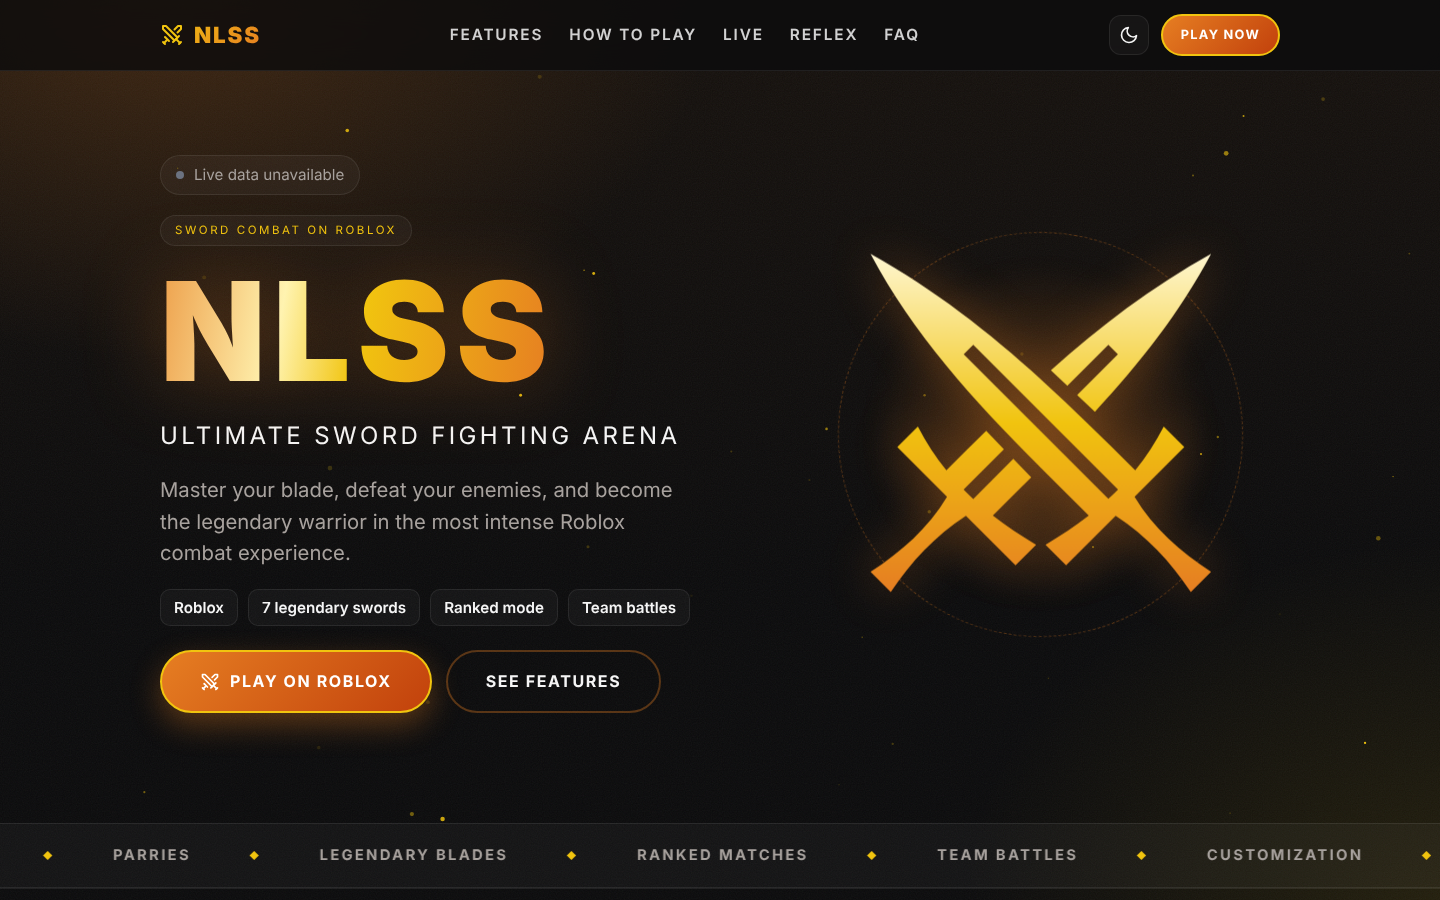
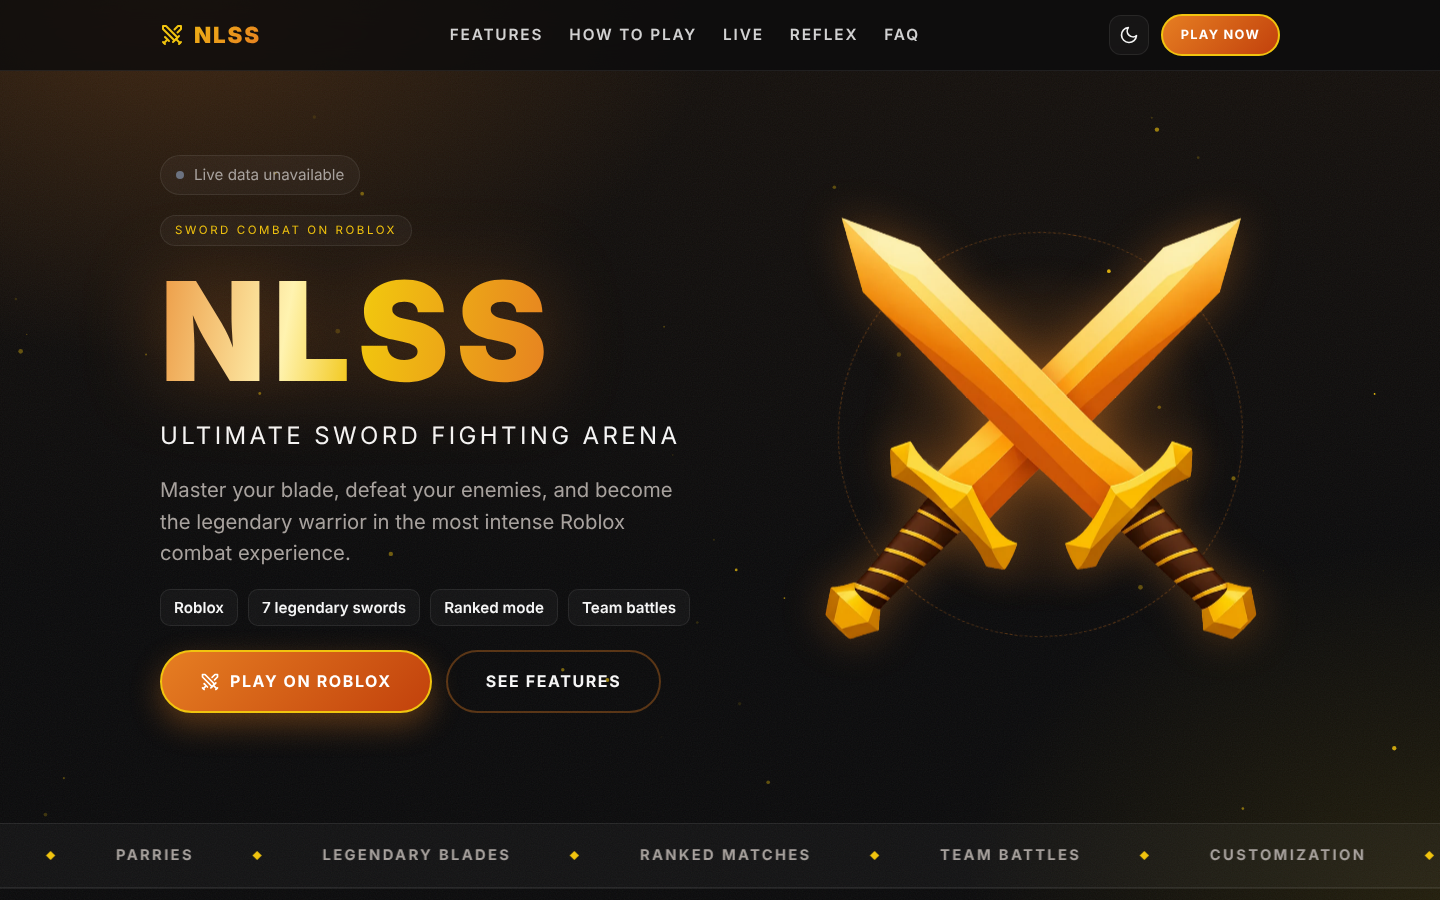
Use the crossed-swords artwork in the hero
- Add _archive/nlss-swords.webp: the supplied gold crossed-swords art,
  with the faint aura and noise removed from its alpha channel, cropped
  to the artwork and resized to 800px (about 55 KB)
- Hero shows the image in a float wrapper; the clash intro animates the
  image and the spark burst lives in its own overlay
- Remove the game-icons credit from the footer, since that icon is no
  longer used
- Refresh screenshots

diff --git a/_archive/nlss_website_final.html b/_archive/nlss_website_final.html
@@ -402,17 +402,12 @@
       background: radial-gradient(circle, var(--glow) 0%, transparent 65%);
       filter: blur(10px);
     }
-    .blades {
-      position: relative;
-      width: 100%;
-      height: 100%;
-      overflow: visible;
-      filter: drop-shadow(0 0 24px var(--glow));
-      animation: float 6s ease-in-out infinite;
-    }
+    .emblem { position: relative; height: 100%; animation: float 6s ease-in-out infinite; }
+    .blades { display: block; width: 100%; height: auto; filter: drop-shadow(0 0 22px var(--glow)); }
+    .sparks { position: absolute; inset: 0; width: 100%; height: 100%; pointer-events: none; overflow: visible; }
     @keyframes float { 50% { transform: translateY(-10px); } }
     .spark-ring, .spark-lines { opacity: 0; }
-    .hero-art.clash .emblem { transform-box: view-box; transform-origin: 256px 256px; animation: emblem-in 0.9s cubic-bezier(0.2, 0.8, 0.2, 1) both; }
+    .hero-art.clash .blades { animation: emblem-in 0.9s cubic-bezier(0.2, 0.8, 0.2, 1) both; }
     .hero-art.clash .spark-ring { transform-box: view-box; transform-origin: 256px 256px; animation: ring 0.7s ease-out 0.8s both; }
     .hero-art.clash .spark-lines { transform-box: view-box; transform-origin: 256px 256px; animation: sparks 0.6s ease-out 0.8s both; }
     @keyframes emblem-in { from { transform: scale(0.8) rotate(-8deg); opacity: 0; } to { transform: none; opacity: 1; } }
@@ -746,7 +741,6 @@
     .foot-links a { color: var(--muted); text-decoration: none; }
     .foot-links a:hover { color: var(--accent-text); text-decoration: underline; }
     .foot-actions { display: flex; align-items: center; gap: 14px; flex-wrap: wrap; justify-content: flex-end; }
-    .copy a { color: var(--accent-text); }
     .copy { margin-top: 34px; padding-top: 22px; border-top: 1px solid var(--line-soft); font-size: 0.92rem; }
     .footer-mark {
       margin-top: 40px;
@@ -945,18 +939,10 @@
         <div class="hero-art" id="hero-art" aria-hidden="true" title="Click to replay the clash">
           <div class="ring"></div>
           <div class="glow"></div>
-          <svg class="blades" viewBox="0 0 512 512" focusable="false">
-            <defs>
-              <linearGradient id="emblem-grad" x1="0" y1="0" x2="0" y2="1">
-                <stop offset="0" stop-color="#fff7d1"/>
-                <stop offset="0.5" stop-color="#f1c40f"/>
-                <stop offset="1" stop-color="#e67e22"/>
-              </linearGradient>
-            </defs>
-            <!-- Crossed swords: game-icons.net "crossed-swords", CC BY 3.0. Confirm author credit on the icon page. -->
-            <g transform="translate(256 256) scale(0.84) translate(-256 -256)">
-              <g class="emblem"><path fill="url(#emblem-grad)" d="M19.75 14.438c59.538 112.29 142.51 202.35 232.28 292.718l3.626 3.75l.063-.062c21.827 21.93 44.04 43.923 66.405 66.25c-18.856 14.813-38.974 28.2-59.938 40.312l28.532 28.53l68.717-68.717c42.337 27.636 76.286 63.646 104.094 105.81l28.064-28.06c-42.47-27.493-79.74-60.206-106.03-103.876l68.936-68.938l-28.53-28.53c-11.115 21.853-24.413 42.015-39.47 60.593c-43.852-43.8-86.462-85.842-130.125-125.47c-.224-.203-.432-.422-.656-.625C183.624 122.75 108.515 63.91 19.75 14.437zm471.875 0c-83.038 46.28-154.122 100.78-221.97 161.156l22.814 21.562l56.81-56.812l13.22 13.187l-56.438 56.44l24.594 23.186c61.802-66.92 117.6-136.92 160.97-218.72zm-329.53 125.906l200.56 200.53a403 403 0 0 1-13.405 13.032L148.875 153.53zm-76.69 113.28l-28.5 28.532l68.907 68.906c-26.29 43.673-63.53 76.414-106 103.907l28.063 28.06c27.807-42.164 61.758-78.174 104.094-105.81l68.718 68.717l28.53-28.53c-20.962-12.113-41.08-25.5-59.937-40.313c17.865-17.83 35.61-35.433 53.157-52.97l-24.843-25.655l-55.47 55.467c-4.565-4.238-9.014-8.62-13.374-13.062l55.844-55.844l-24.53-25.374c-18.28 17.856-36.602 36.06-55.158 54.594c-15.068-18.587-28.38-38.758-39.5-60.625z"/></g>
-            </g>
+          <div class="emblem">
+            <img class="blades" src="nlss-swords.webp" alt="" width="800" height="800" decoding="async">
+          </div>
+          <svg class="sparks" viewBox="0 0 512 512" focusable="false">
             <g class="spark-lines" stroke="#fff3b0" stroke-width="10" stroke-linecap="round"><line x1="336.0" y1="256.0" x2="376.0" y2="256.0"/><line x1="312.6" y1="312.6" x2="340.9" y2="340.9"/><line x1="256.0" y1="336.0" x2="256.0" y2="376.0"/><line x1="199.4" y1="312.6" x2="171.1" y2="340.9"/><line x1="176.0" y1="256.0" x2="136.0" y2="256.0"/><line x1="199.4" y1="199.4" x2="171.1" y2="171.1"/><line x1="256.0" y1="176.0" x2="256.0" y2="136.0"/><line x1="312.6" y1="199.4" x2="340.9" y2="171.1"/></g>
             <circle class="spark-ring" cx="256" cy="256" r="60" fill="none" stroke="#f1c40f" stroke-width="8"/>
           </svg>
@@ -1195,7 +1181,7 @@
           <a class="btn btn-sm" href="https://www.roblox.com/games/129483753300243/Coming-soon" target="_blank" rel="noopener">Play on Roblox</a>
         </div>
       </div>
-      <p class="copy">© 2026 NLSS. All rights reserved. Crossed swords icon from <a href="https://game-icons.net" target="_blank" rel="noopener">game-icons.net</a>, <a href="https://creativecommons.org/licenses/by/3.0/" target="_blank" rel="noopener">CC BY 3.0</a>.</p>
+      <p class="copy">© 2026 NLSS. All rights reserved.</p>
     </div>
     <div class="footer-mark" aria-hidden="true">NLSS</div>
   </footer>
